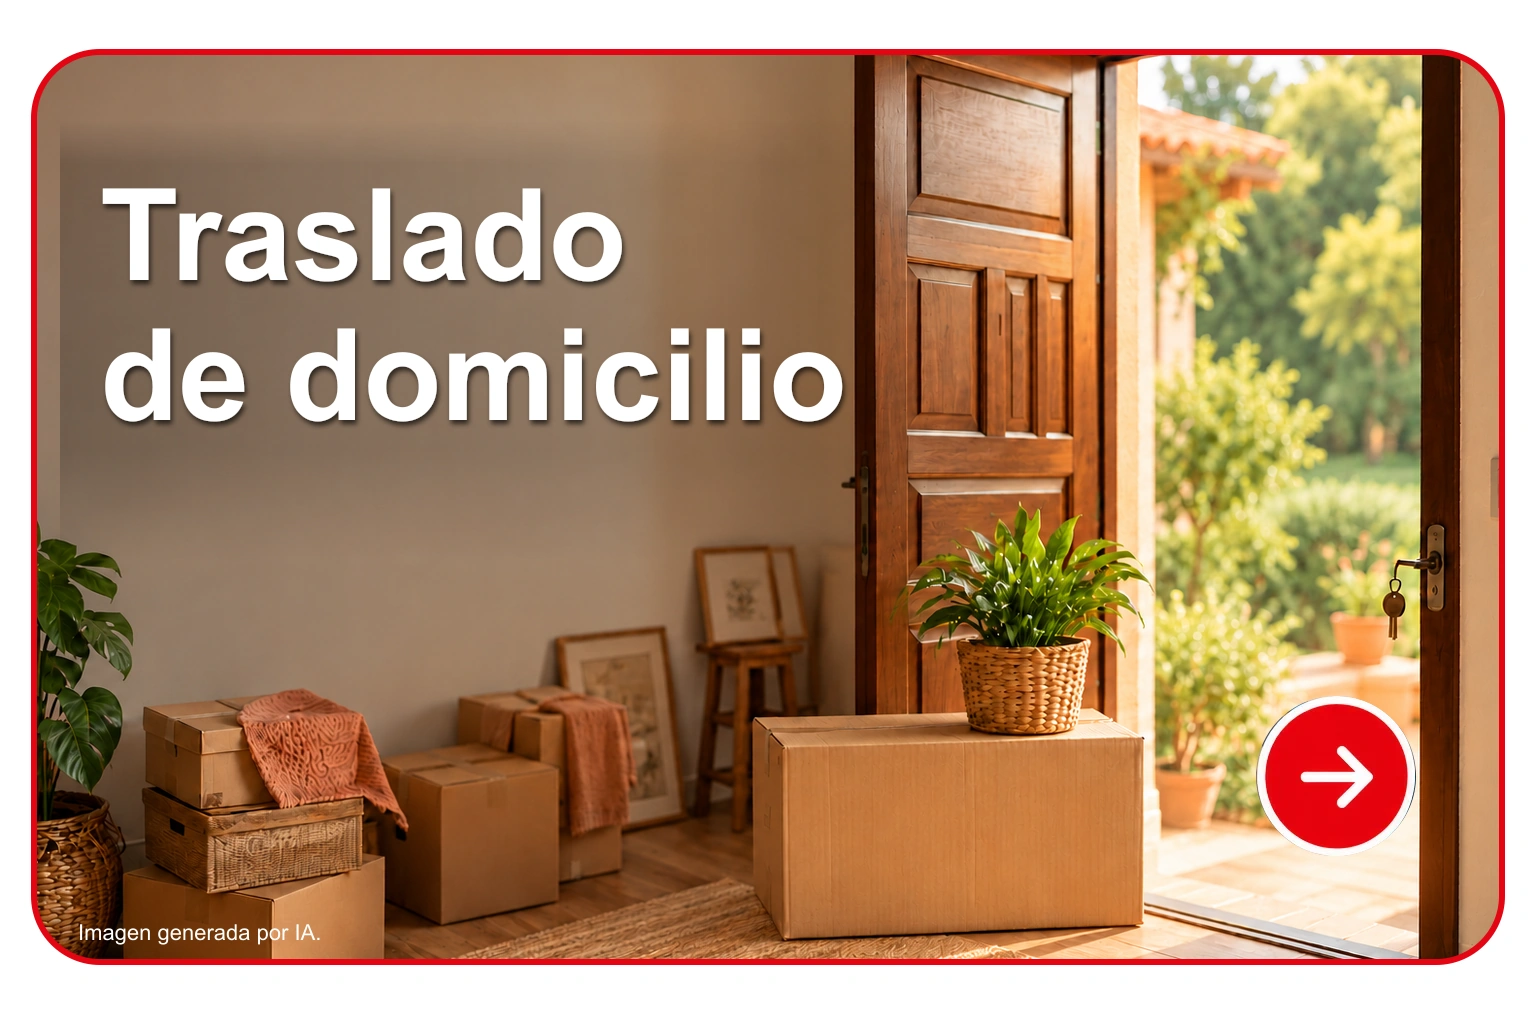
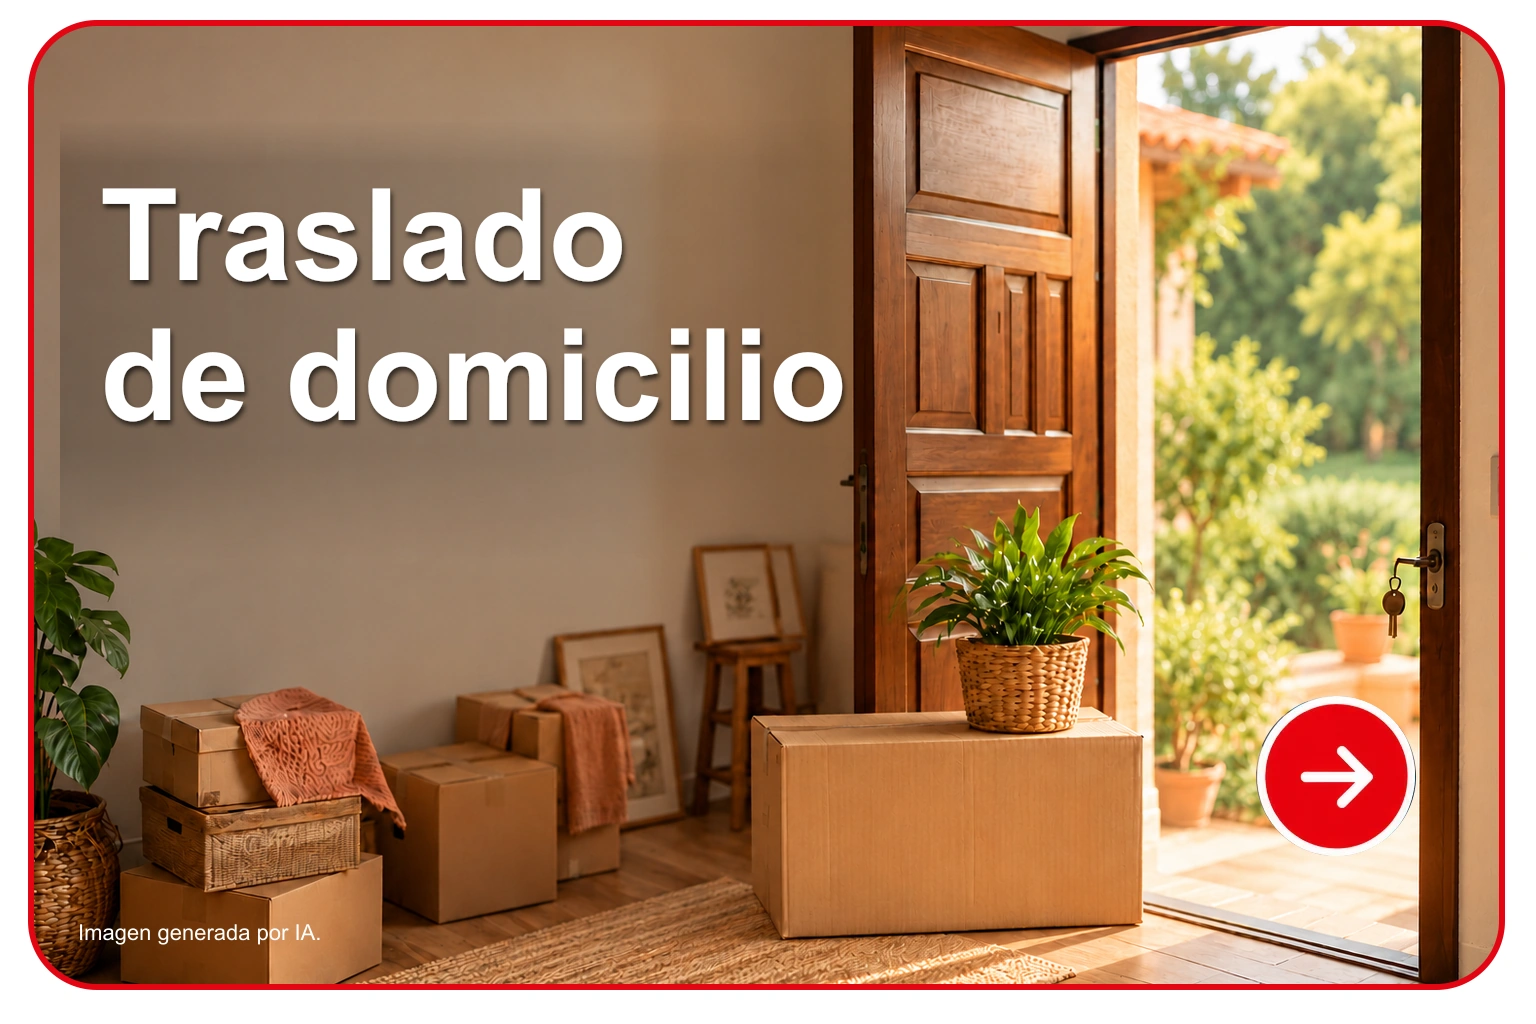
Match relocation card frame height and margins to marriage reference

diff --git a/service-worker.js b/service-worker.js
@@ -1,4 +1,4 @@
-const CACHE_NAME = 'str-ig-cache-v118';
+const CACHE_NAME = 'str-ig-cache-v119';
 
 const SUPABASE_URL = 'https://icneigdnuntzugisexaz.supabase.co';
 const SUPABASE_PUBLISHABLE_KEY = 'sb_publishable_apKjcPClIBTHS2wwN6qPsA_6Vm4tk9m';
